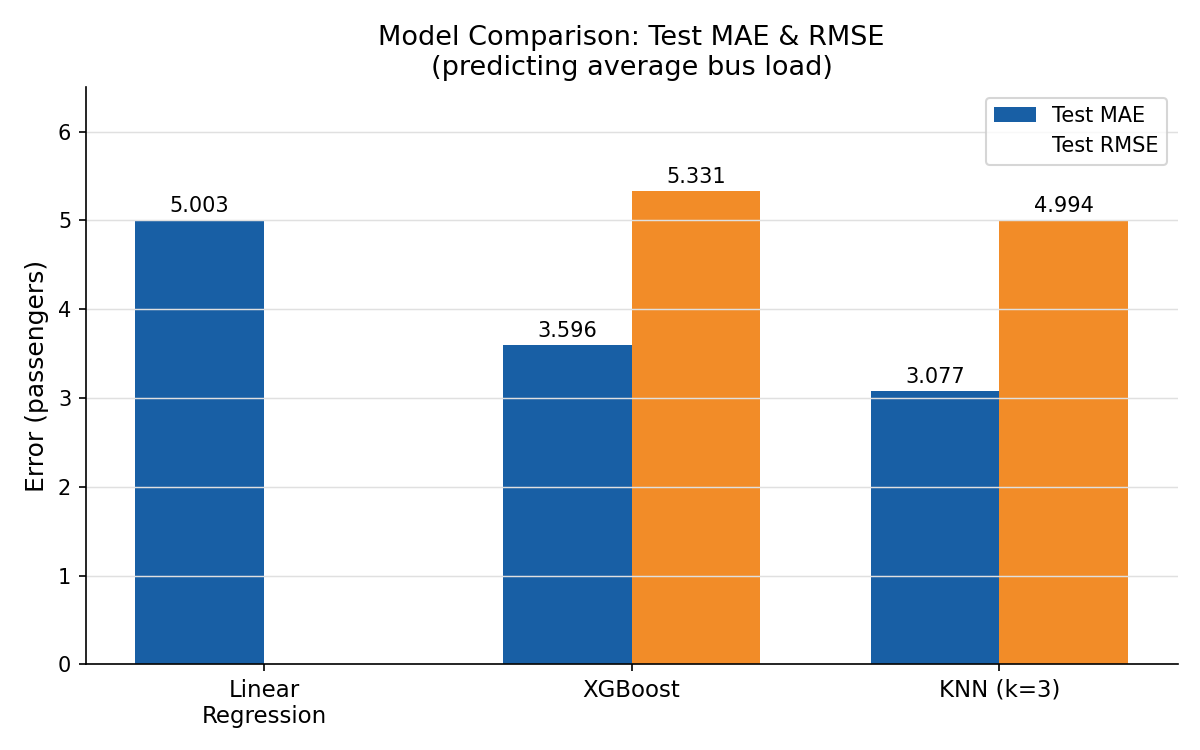
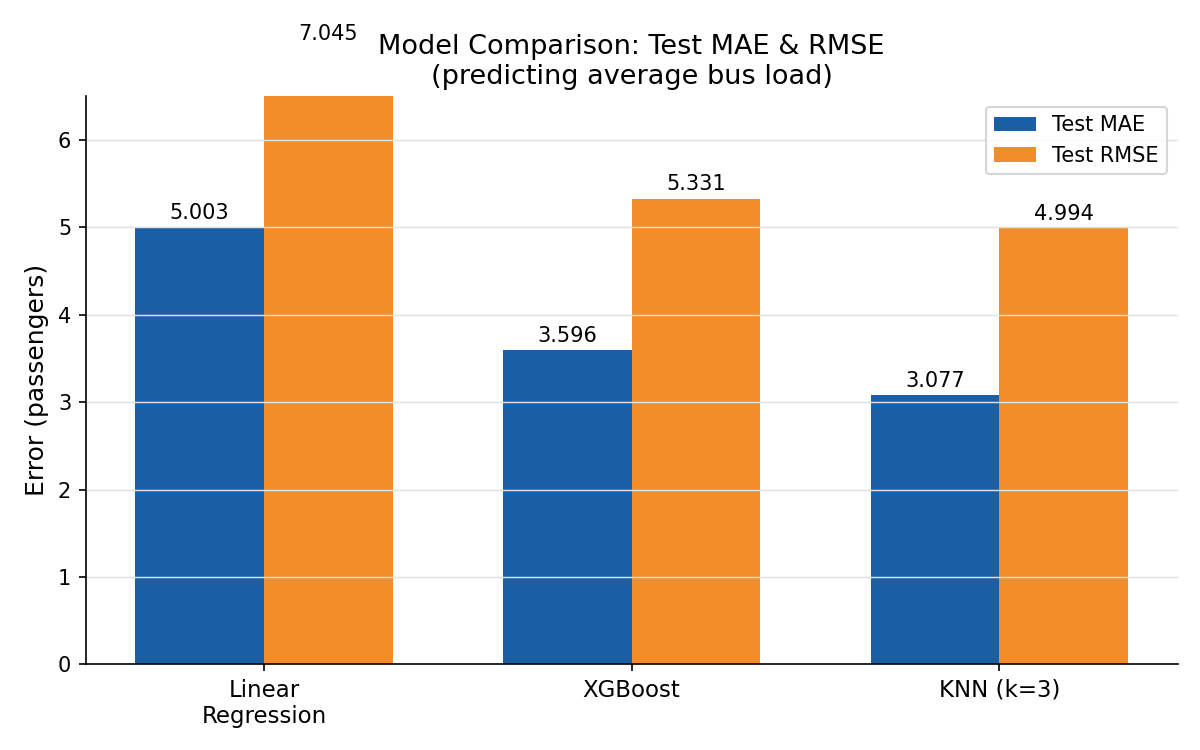
update rmse for linearregression

diff --git a/src/model/linearRegression.py b/src/model/linearRegression.py
@@ -9,7 +9,7 @@ from sklearn.compose import ColumnTransformer
 from sklearn.preprocessing import OneHotEncoder
 from sklearn.pipeline import Pipeline
 from sklearn.linear_model import LinearRegression
-from sklearn.metrics import mean_absolute_error, r2_score
+from sklearn.metrics import mean_absolute_error, r2_score, root_mean_squared_error
 
 project_root = Path(__file__).resolve().parent.parent.parent
 DB_PATH = project_root / "dataset" / "Ridership_v1.sqlite"
@@ -83,10 +83,12 @@ y_pred = model.predict(X_test)
 # =========================
 mae = mean_absolute_error(y_test, y_pred)
 r2 = r2_score(y_test, y_pred)
+rmse = root_mean_squared_error(y_test, y_pred)
 
 print("\n=== Linear Regression Baseline ===")
 print(f"MAE: {mae:.4f}")
 print(f"R^2: {r2:.4f}")
+print(f"RMSE: {rmse:.4f}")
 
 # =========================
 # 5. Choose one route/day to compare all time periods

diff --git a/src/model/comparison.py b/src/model/comparison.py
@@ -6,7 +6,7 @@ project_root = Path(__file__).resolve().parent.parent.parent
 
 models = ["Linear\nRegression", "XGBoost", "KNN (k=3)"]
 mae    = [5.003, 3.596, 3.077]
-rmse   = [None,  5.331, 4.994]  # LinearRegression no RMSE recorded
+rmse   = [7.045,  5.331, 4.994]
 
 x = np.arange(len(models))
 width = 0.35